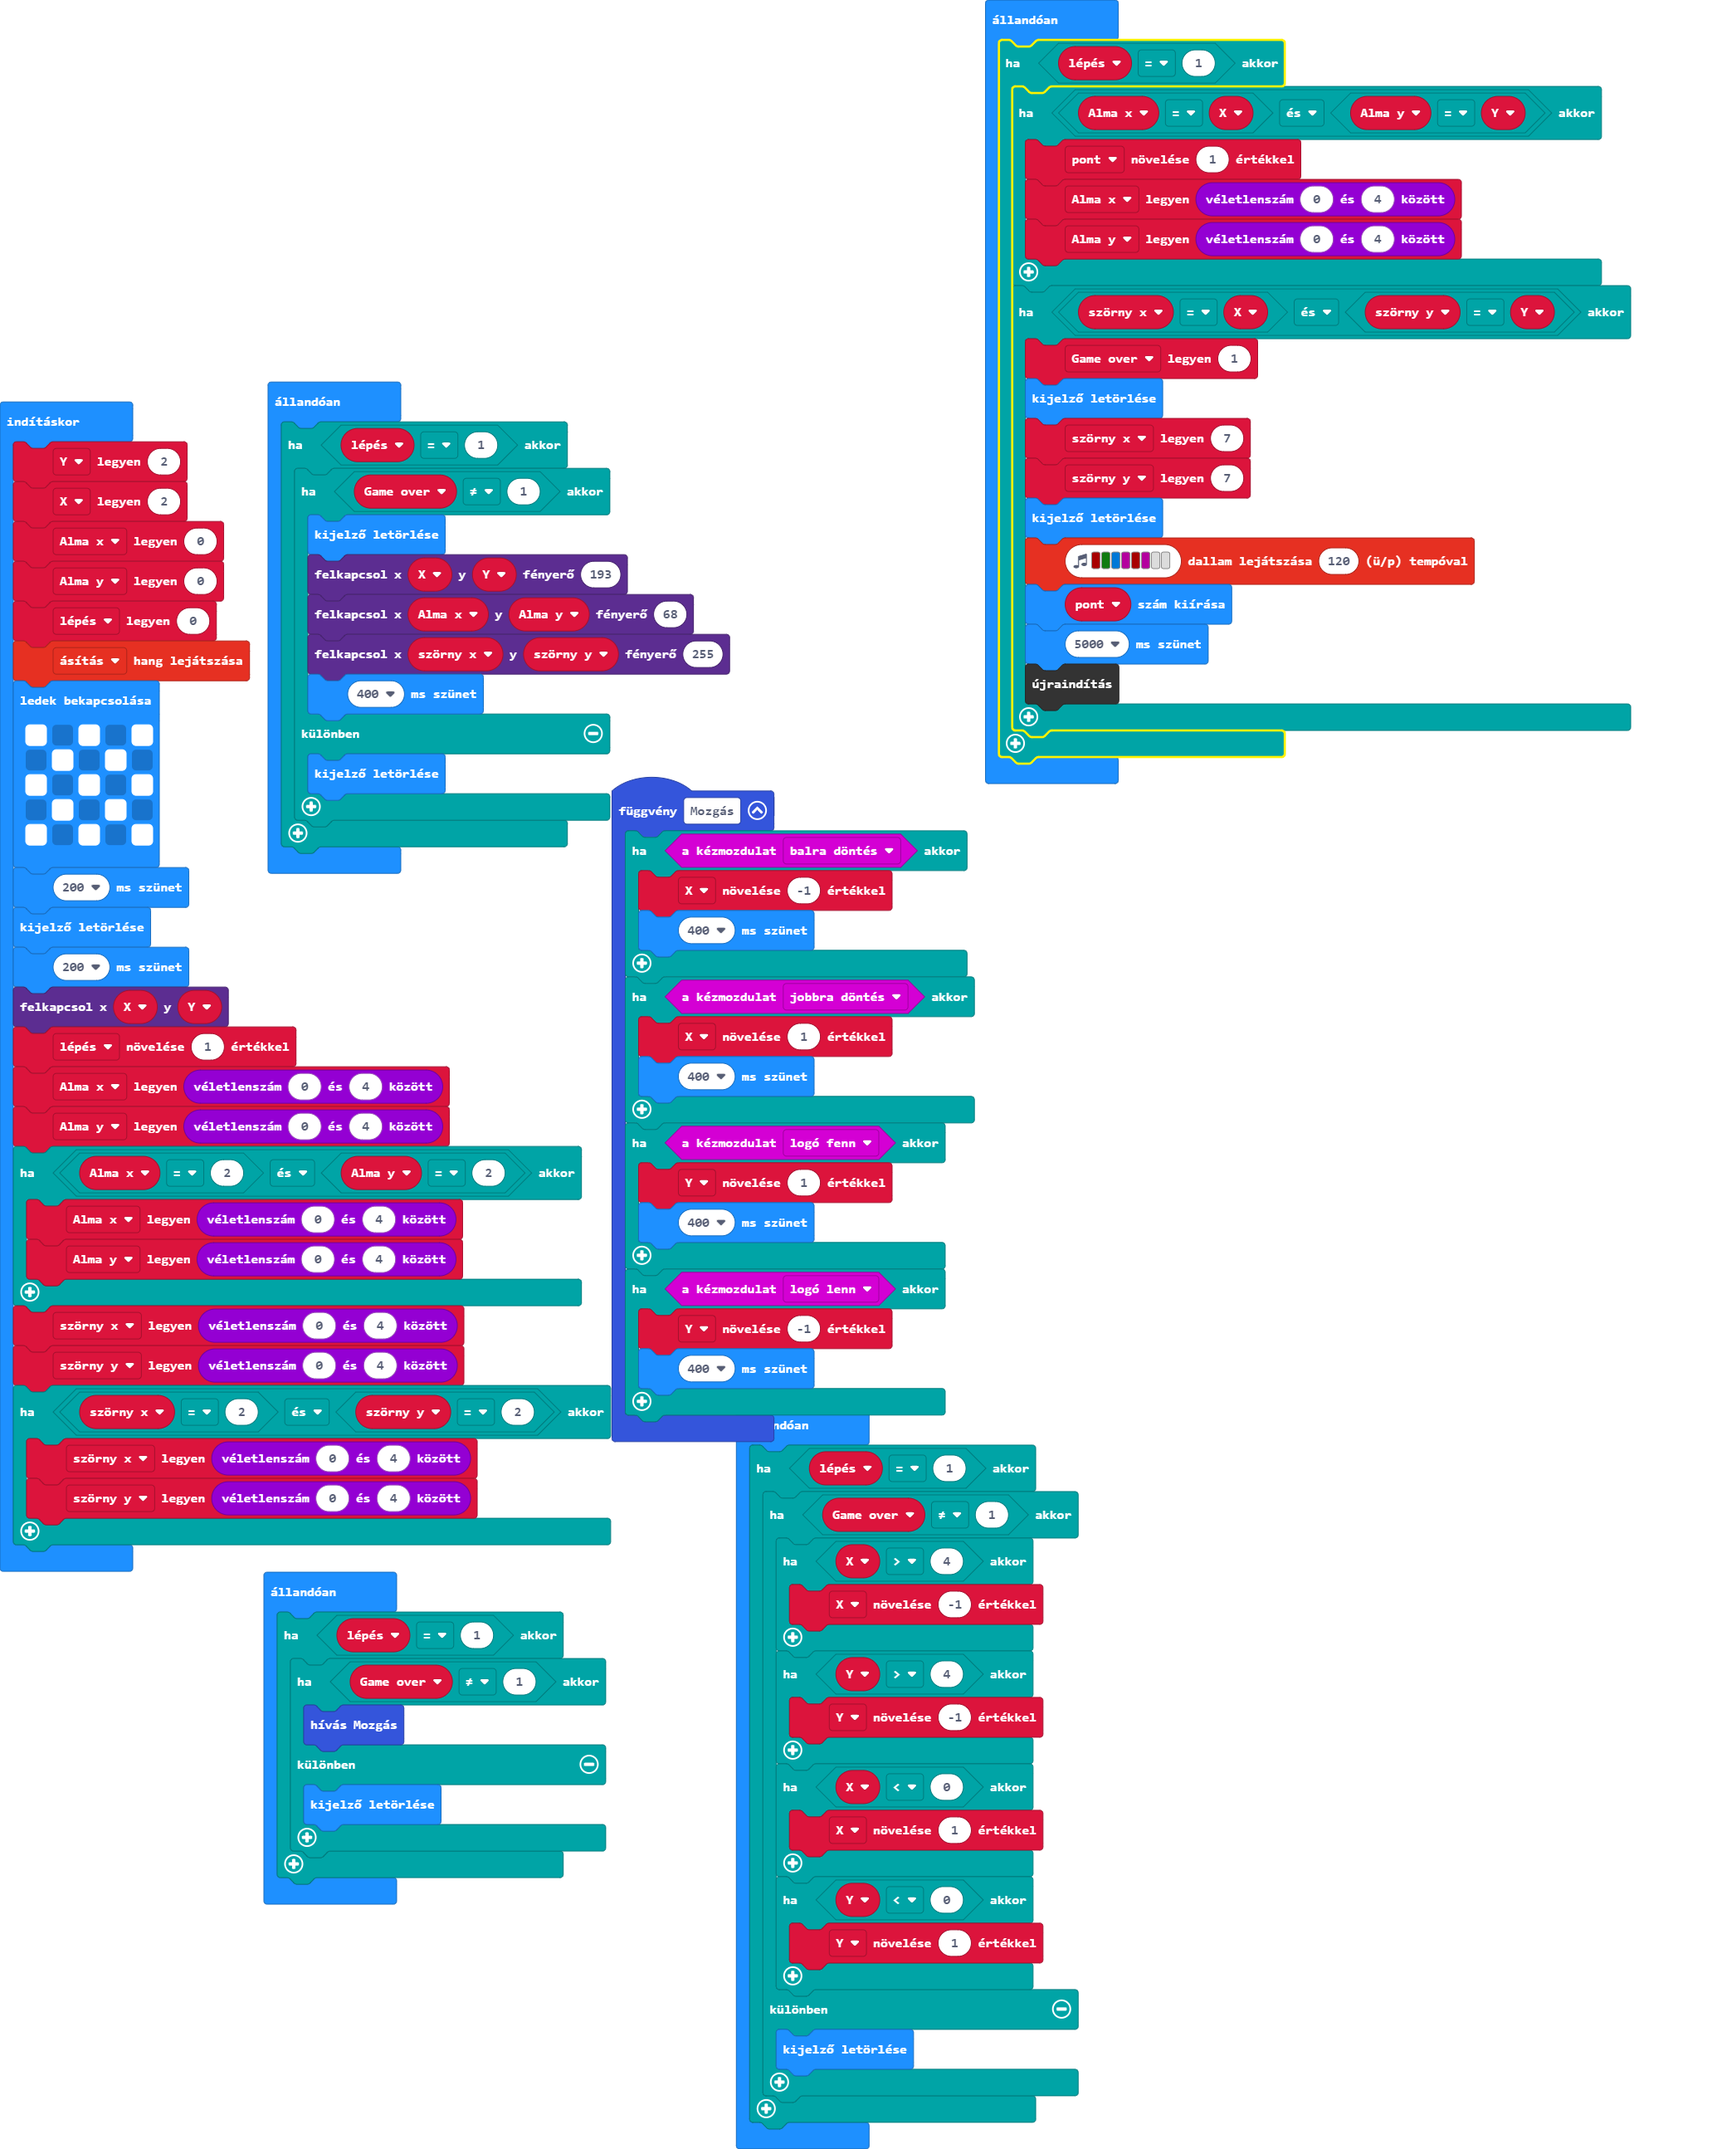
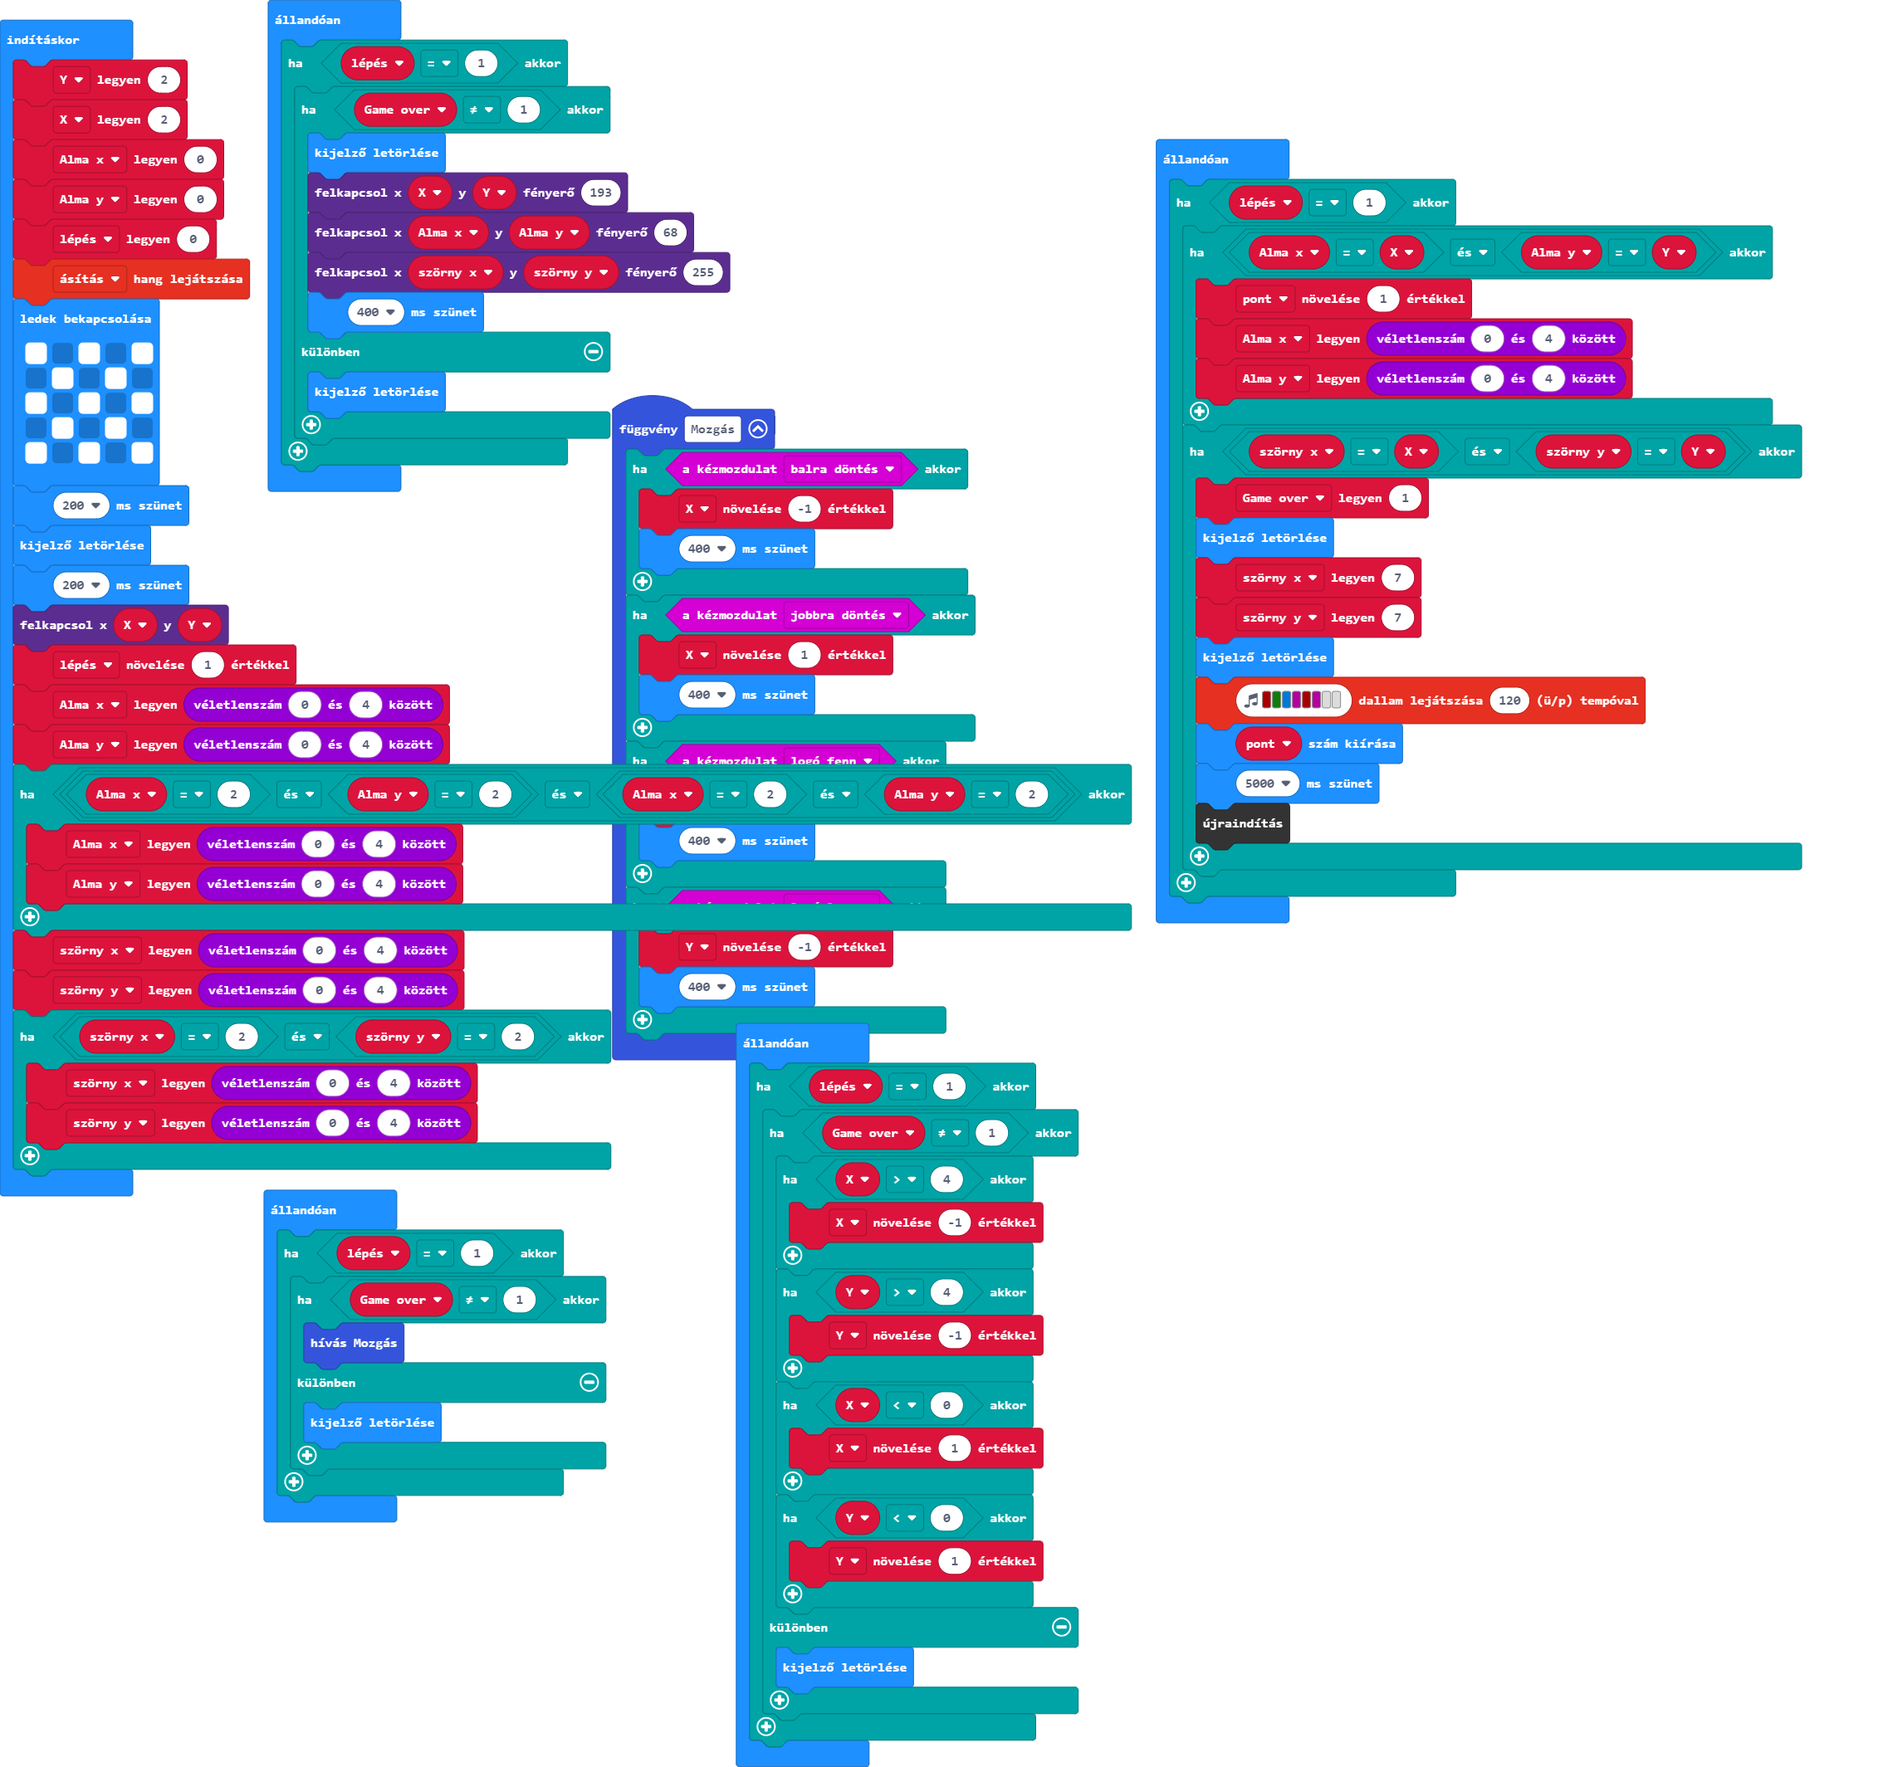
main.blocks, main.ts frissítése

diff --git a/main.ts b/main.ts
@@ -16,8 +16,8 @@ function Mozgás () {
         basic.pause(400)
     }
 }
-let Game_over = 0
 let pont = 0
+let Game_over = 0
 let Y = 2
 let X = 2
 let Alma_x = 0
@@ -38,7 +38,7 @@ led.plot(X, Y)
 lépés += 1
 Alma_x = randint(0, 4)
 Alma_y = randint(0, 4)
-if (Alma_x == 2 && Alma_y == 2) {
+if (Alma_x == 2 && Alma_y == 2 && (Alma_x == 2 && Alma_y == 2)) {
     Alma_x = randint(0, 4)
     Alma_y = randint(0, 4)
 }
@@ -48,6 +48,19 @@ if (szörny_x == 2 && szörny_y == 2) {
     szörny_x = randint(0, 4)
     szörny_y = randint(0, 4)
 }
+basic.forever(function () {
+    if (lépés == 1) {
+        if (Game_over != 1) {
+            basic.clearScreen()
+            led.plotBrightness(X, Y, 193)
+            led.plotBrightness(Alma_x, Alma_y, 68)
+            led.plotBrightness(szörny_x, szörny_y, 255)
+            basic.pause(400)
+        } else {
+            basic.clearScreen()
+        }
+    }
+})
 basic.forever(function () {
     if (lépés == 1) {
         if (Alma_x == X && Alma_y == Y) {
@@ -65,19 +78,6 @@ basic.forever(function () {
             basic.showNumber(pont)
             basic.pause(5000)
             control.reset()
-        }
-    }
-})
-basic.forever(function () {
-    if (lépés == 1) {
-        if (Game_over != 1) {
-            basic.clearScreen()
-            led.plotBrightness(X, Y, 193)
-            led.plotBrightness(Alma_x, Alma_y, 68)
-            led.plotBrightness(szörny_x, szörny_y, 255)
-            basic.pause(400)
-        } else {
-            basic.clearScreen()
         }
     }
 })
